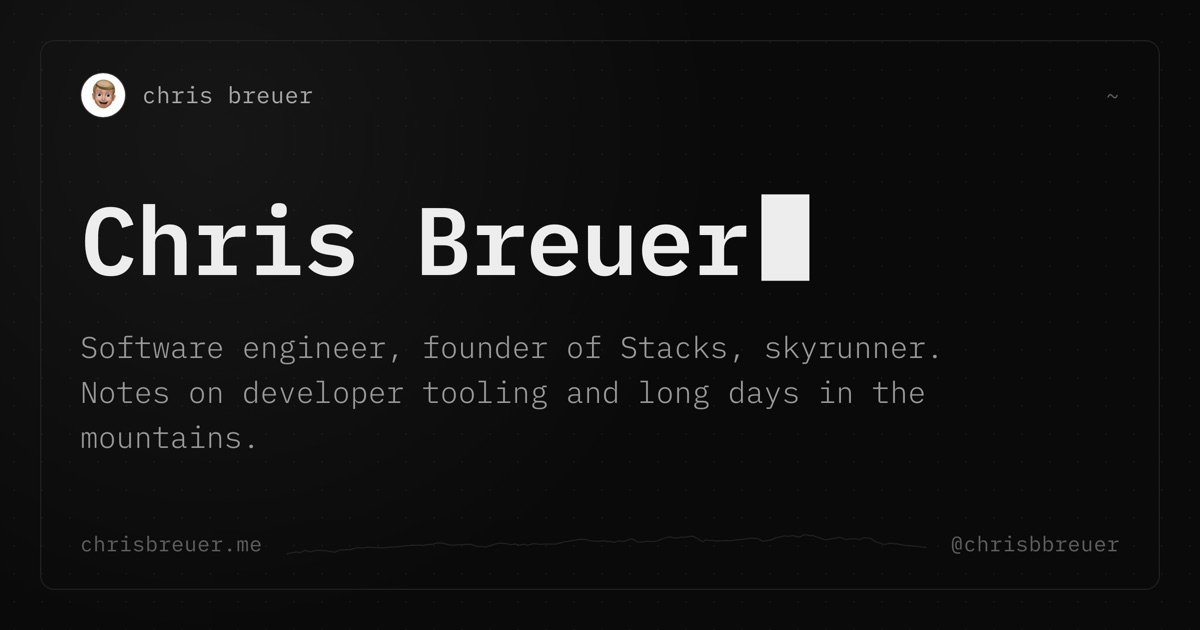
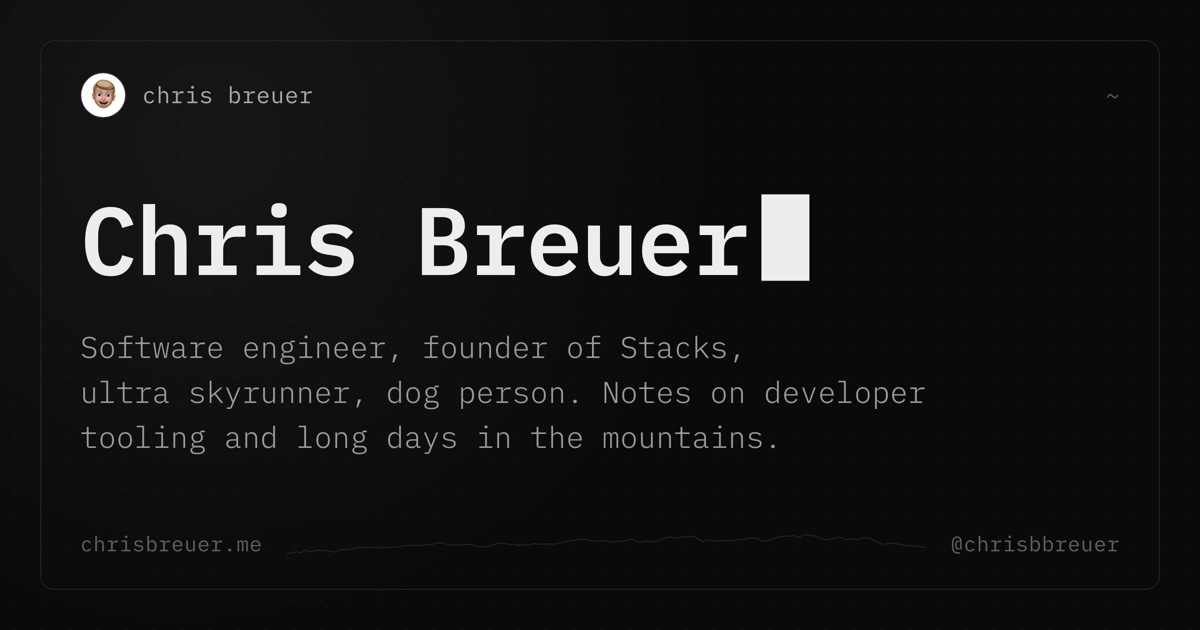
feat(og): the home card says dog person too
Re-rendered from scripts/build-og.ts. The committed card was also older
than its source and still said "skyrunner" rather than "ultra
skyrunner". "ultra skyrunner" is held together with a non-breaking space
so the line never splits it.

diff --git a/scripts/build-og.ts b/scripts/build-og.ts
@@ -20,7 +20,7 @@ const cards: Card[] = [
     slug: 'home',
     path: '~',
     title: 'Chris Breuer',
-    desc: 'Software engineer, founder of Stacks, ultra skyrunner. Notes on developer tooling and long days in the mountains.',
+    desc: 'Software engineer, founder of Stacks, ultra\u00A0skyrunner, dog person. Notes on developer tooling and long days in the mountains.',
   },
   {
     slug: 'about',
